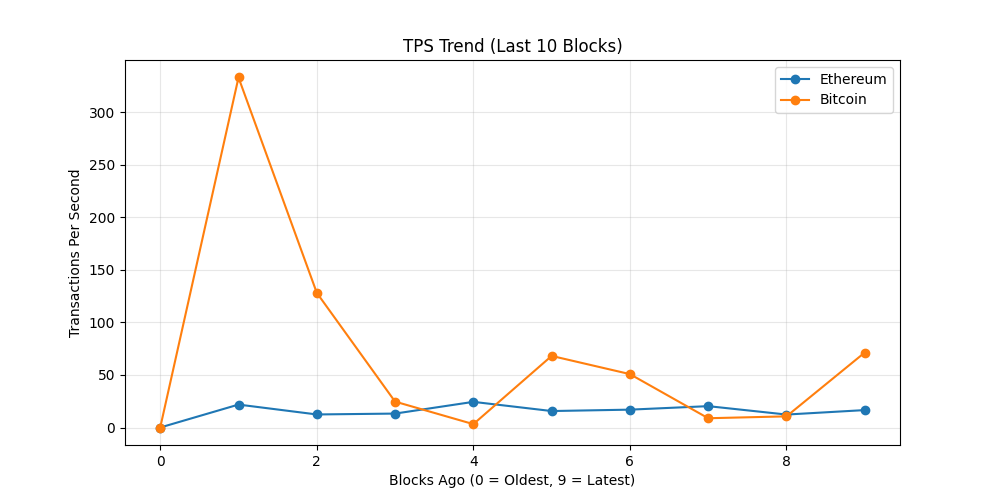
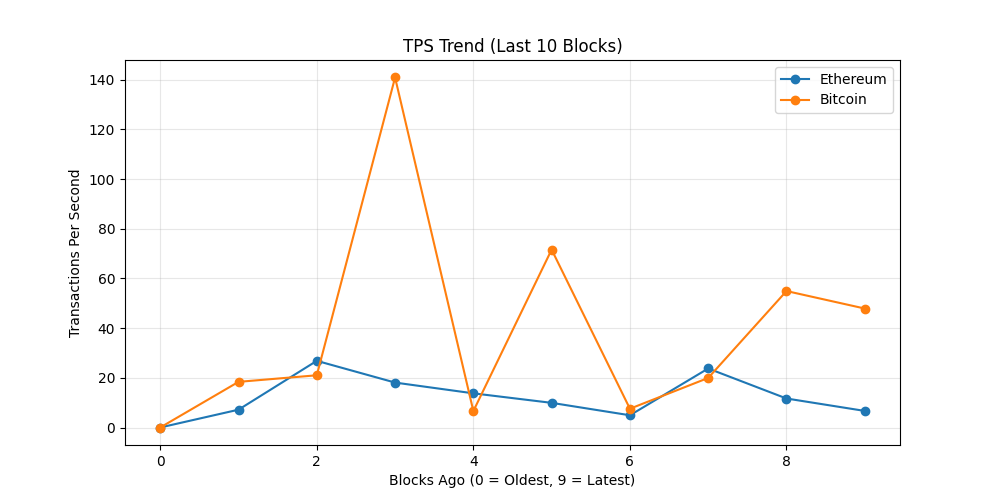
chore: update on-chain dashboard

diff --git a/README.md b/README.md
@@ -19,7 +19,7 @@ The README itself acts as the dashboard and is regenerated automatically on a 6 
 demonstrating a production-style, infrastructure-focused observability workflow rather
 than a traditional UI-driven approach.
 
-_Last updated: 2026-06-27 19:43 UTC_
+_Last updated: 2026-06-28 04:48 UTC_
 
 ## API Usage (GetBlock.io)
 - Calls used: **24**
@@ -27,8 +27,8 @@ _Last updated: 2026-06-27 19:43 UTC_
 ## Network Metrics
 | Chain | Block Height | TX Count | TPS (10 blk avg) | Block Util | Avg Fee |
 |------|-------------|----------|------------------|------------|---------|
-| Ethereum | 25411141 | 199 | 16.58 | 42.7% | 0.1 Gwei |
-| Bitcoin | 955708 | 6427 | 71.41 | 99.8% | N/A |
+| Ethereum | 25413861 | 80 | 6.67 | 17.5% | 0.1 Gwei |
+| Bitcoin | 955763 | 6177 | 47.88 | 99.88% | N/A |
 
 ## Visuals
 ### Transactions Trend
@@ -43,8 +43,8 @@ _Last updated: 2026-06-27 19:43 UTC_
 ## Whale Alerts (latest block)
 - Transaction hashes are truncated for readability.
 - Full hashes are available in `dashboards/metrics.json`
-- Bitcoin | 108.29 BTC | `cbba4fbf1d98…`
-- Bitcoin | 147.91 BTC | `c7d3b80493c4…`
+- Bitcoin | 168.29 BTC | `ead4cedd8ab2…`
+- Bitcoin | 244.99 BTC | `521a1d1e3c67…`
 
 ## Run locally
 
